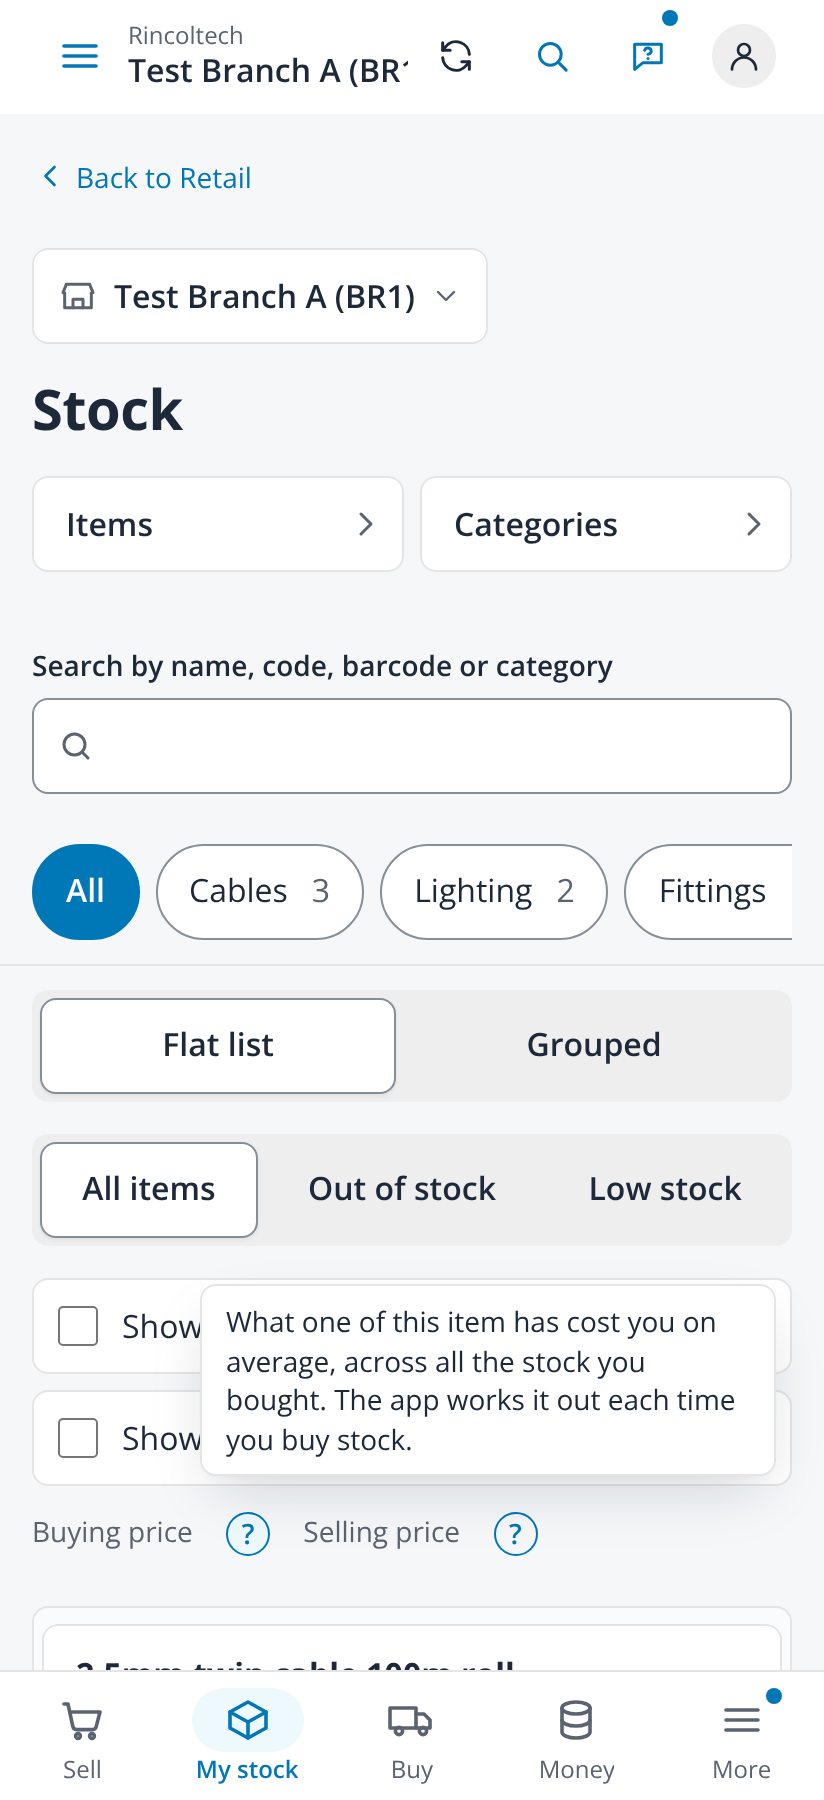
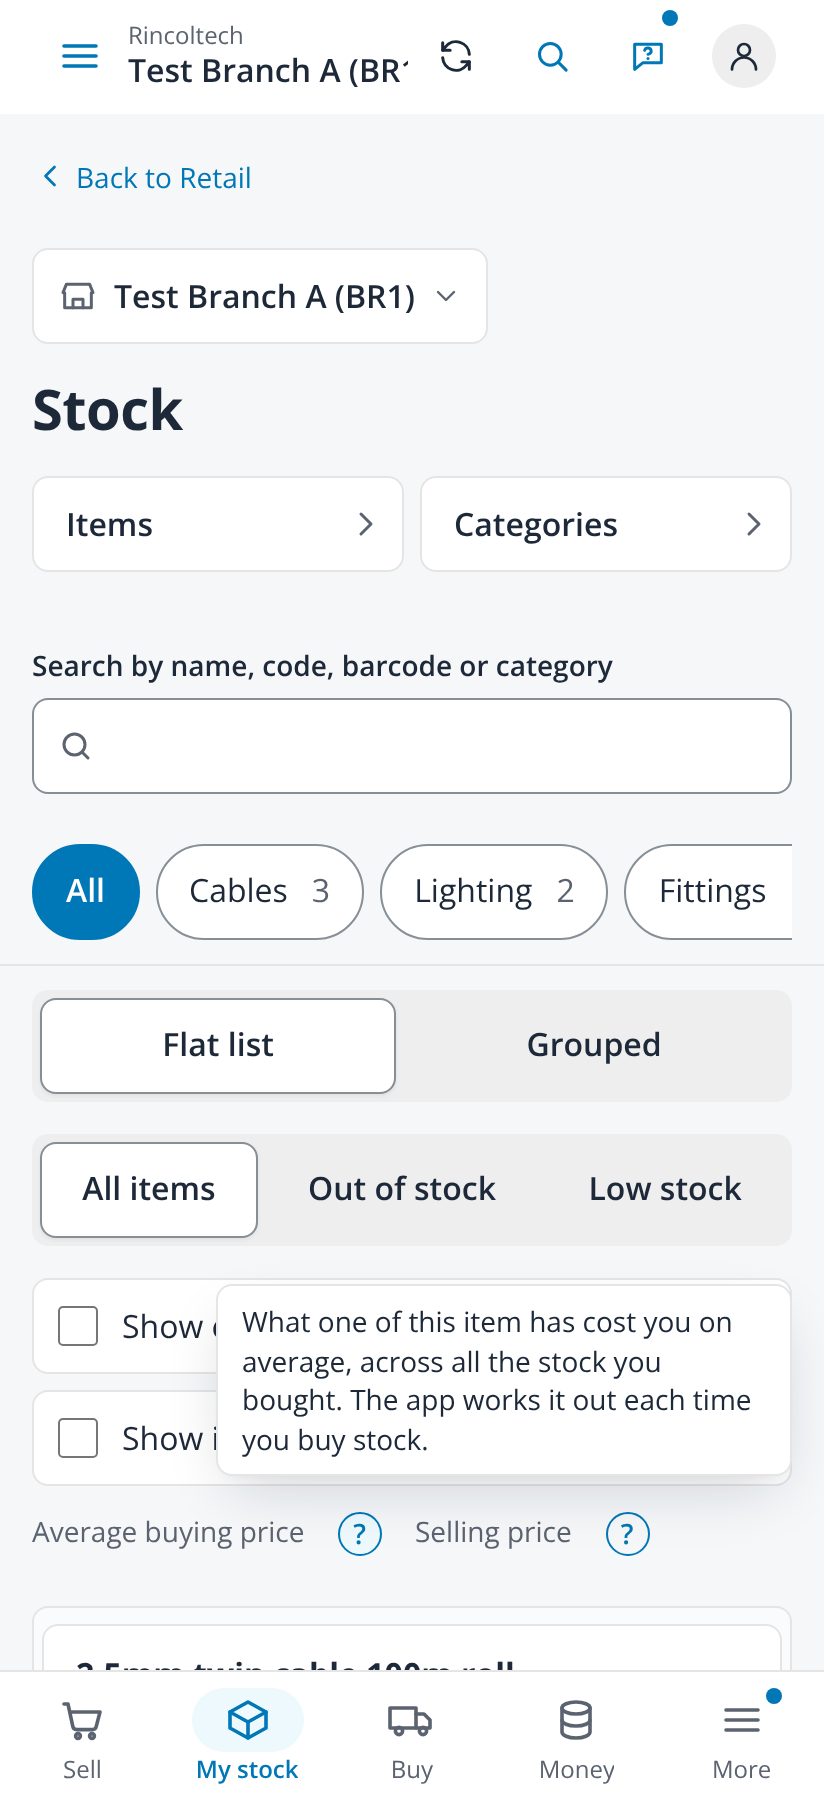
Phone price tips are the table's Average buying price and Selling price (#707)
Round 2 instruction on #712: the My stock phone cards and the
all-branches list show the same two tips as the table headers, so the
separate Buying price tip is gone. Adds tests for the button's accessible
description and for a tip kept open while a sideways scrolling table
scrolls, and asserts the tips on the all-branches phone list.

Changed region(s): [[0.2427, 0.7156, 0.8799, 0.8089], [0.0303, 0.84, 0.6978, 0.8711], [0.7282, 0.84, 0.7888, 0.8711]]

diff --git a/frontend/src/app/ui/HelpTip.dom.test.tsx b/frontend/src/app/ui/HelpTip.dom.test.tsx
@@ -61,11 +61,26 @@ describe('the help tip', () => {
   });
 
   // JUSTIFICATION-A3: one test per finding of the #712 review (scroll, blur, live region, Enter after focus).
-  it('stays open when the page or a table scrolls, as the browser does to show a focused header', () => {
-    const tip = page();
+  it('stays open when a sideways scrolling table scrolls to show its focused header, or the screen resizes', () => {
+    render(
+      <div className="table-wrap" data-testid="wrap">
+        <table><thead><tr><th aria-label="On credit">On credit <HelpTip tip="onCredit" /></th></tr></thead></table>
+      </div>,
+    );
+    const tip = screen.getByRole('button', { name: 'More about On credit' });
     fireEvent.focus(tip);
+    fireEvent.scroll(screen.getByTestId('wrap'), { target: { scrollLeft: 200 } });
     fireEvent.scroll(window);
+    fireEvent(window, new Event('resize'));
     expect(screen.getByText(WORDS)).toBeTruthy();
+    expect(tip.getAttribute('aria-expanded')).toBe('true');
+  });
+
+  it('gives the button its words as its accessible description once open', () => {
+    const tip = page();
+    expect(screen.getByRole('button', { name: 'More about On credit', description: '' })).toBe(tip);
+    fireEvent.focus(tip);
+    expect(screen.getByRole('button', { name: 'More about On credit', description: WORDS })).toBe(tip);
   });
 
   it('closes when focus moves away, so two tips never stay open together', () => {

diff --git a/frontend/src/app/ui/help-tips-guard.dom.test.tsx b/frontend/src/app/ui/help-tips-guard.dom.test.tsx
@@ -34,7 +34,7 @@ const ELSEWHERE: Partial<Record<HelpTipKey, string>> = {
   guarantor: 'areas/staff/lending/application.dom.test.tsx',
   inArrears: 'areas/staff/home-cards.dom.test.tsx',
 };
-const HERE: HelpTipKey[] = ['averageBuyingPrice', 'sellingPrice', 'buyingPrice', 'priceList', 'appraisal', 'outstanding', 'collateral'];
+const HERE: HelpTipKey[] = ['averageBuyingPrice', 'sellingPrice', 'priceList', 'appraisal', 'outstanding', 'collateral'];
 
 afterEach(() => {
   cleanup();
@@ -85,13 +85,14 @@ describe('the help tips guard', () => {
     expect(screen.getAllByRole('columnheader', { name: 'Average buying price' })).toHaveLength(2);
   });
 
-  it('draws the price tips once above each list of cards on a phone', () => {
+  it('draws the same two price tips once above each list of cards on a phone', () => {
     screenAt(true);
     show(<><StockTable rows={rows} showCost flat /><AllBranchesList data={everywhere} showCost flat /></>);
-    expect(tips('buyingPrice')).toHaveLength(2);
+    expect(tips('averageBuyingPrice')).toHaveLength(2);
     expect(tips('sellingPrice')).toHaveLength(2);
+    // Without the buying price, only Selling price.
     show(<StockTable rows={rows} showCost={false} flat />);
-    expect(tips('buyingPrice')).toHaveLength(2);
+    expect(tips('averageBuyingPrice')).toHaveLength(2);
     expect(tips('sellingPrice')).toHaveLength(3);
   });
 

diff --git a/frontend/src/areas/staff/retail/screens.test.tsx b/frontend/src/areas/staff/retail/screens.test.tsx
@@ -122,10 +122,16 @@ describe('stock screen', () => {
     const table = renderToString(<AllBranchesTable data={data} showCost />);
     expect(table.indexOf('>Average buying price <')).toBeGreaterThan(-1);
     expect(table.indexOf('>Average buying price <')).toBeLessThan(table.indexOf('>Selling price <'));
-    expect(renderToString(<AllBranchesList data={data} showCost />)).toContain('Buying price <span class="num">UGX 3,500</span> · Selling price <span class="num">UGX 6,000</span>');
+    const cards = renderToString(<AllBranchesList data={data} showCost />);
+    expect(cards).toContain('Buying price <span class="num">UGX 3,500</span> · Selling price <span class="num">UGX 6,000</span>');
+    // Issue #707: the phone cards carry the same two tips as the table headers, once above the list.
+    expect(cards).toContain('aria-label="More about Average buying price"');
+    expect(cards).toContain('aria-label="More about Selling price"');
     const sales = renderToString(<AllBranchesList data={data} showCost={false} />);
     expect(sales).toContain('Selling price <span class="num">UGX 6,000</span>');
+    expect(sales).toContain('aria-label="More about Selling price"');
     expect(sales).not.toContain('Buying');
+    expect(sales).not.toContain('buying');
   });
 
   it('shows the category of each item in a Category column when the list is not grouped', () => {

diff --git a/frontend/src/app/help-tips.ts b/frontend/src/app/help-tips.ts
@@ -13,10 +13,6 @@ export const HELP_TIPS = {
     label: 'Average buying price',
     text: 'What one of this item has cost you on average, across all the stock you bought. The app works it out each time you buy stock.',
   },
-  buyingPrice: {
-    label: 'Buying price',
-    text: 'What one of this item has cost you on average, across all the stock you bought. The app works it out each time you buy stock.',
-  },
   sellingPrice: {
     label: 'Selling price',
     text: 'What a customer pays you for one. Change it on the item\'s page.',

diff --git a/frontend/src/areas/staff/retail/stock.tsx b/frontend/src/areas/staff/retail/stock.tsx
@@ -57,7 +57,7 @@ function PriceLine({ cost, sell }: { cost?: number; sell?: number }) {
 function PriceTips({ cost }: { cost: boolean }) {
   return (
     <p className="hint">
-      {cost && <>{WORDS.buyingPrice} <HelpTip tip="buyingPrice" /> </>}
+      {cost && <>Average buying price <HelpTip tip="averageBuyingPrice" /> </>}
       {WORDS.sellingPrice} <HelpTip tip="sellingPrice" />
     </p>
   );

diff --git a/docs/ui/join-and-tips-707/README.md b/docs/ui/join-and-tips-707/README.md
@@ -11,5 +11,5 @@ Chromium with reduced motion, on a phone at 412x900 and a laptop at 1366x900. No
 | `04-tip-open-*.png` | The help tip open after a tap, under its question mark |
 | `05-join-done-*.png` | Success: "Cable 100m roll now has 2 sizes" with Open it and Put more together |
 | `06-add-to-an-item-with-sizes-*.png` | Add more sizes to an item that already has sizes: one search for a size of that item, then the same three steps |
-| `07-my-stock-phone-price-tips-412.png` | My stock on a phone: Buying price and Selling price tips once above the cards, one open over the page (above the button when there is no room below) |
+| `07-my-stock-phone-price-tips-412.png` | My stock on a phone: the same Average buying price and Selling price tips as the table, once above the cards, one open over the page (above the button when there is no room below) |
 | `07-my-stock-tip-on-keyboard-focus-1366.png` | My stock on a laptop: Average buying price and Selling price each with a tip, one open on keyboard focus, not cut off by the table |
